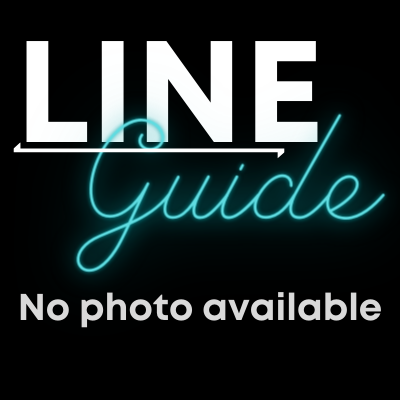
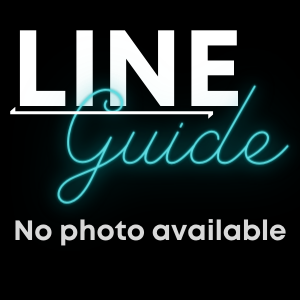
add default image

diff --git a/lines/templates/lines/line_detail.html b/lines/templates/lines/line_detail.html
@@ -4,11 +4,11 @@
 
 <div class="row ">
   <div class="col s6">
-    <div class="card-panel grey darken-1 teal-text valign-wrapper" style="border-radius: 15px; height: 350px; border-top: 10px;">
+    <div class="card-panel grey darken-1 teal-text valign-wrapper" style="border-radius: 15px;">
       {% for photo in line.photo_set.all %}
-      <img class="responsive-img" src="{{photo.url}}" alt="" style="height: 250px; border-top: 10px;" />
+      <img class="responsive card-image" src="{{photo.url}}" alt="" />
       {% empty %}
-      <div class="card-panel teal-text center-align">{% static 'images/lg_no_photo.png'%}</div>
+      <img class="responsive card-image center" src="{% static 'images/lg_no_photo.png' %}" alt="" />
       {% endfor %}
     </div>
   </div>

diff --git a/lines/static/css/style.css b/lines/static/css/style.css
@@ -10,6 +10,11 @@ body {
 main {
   flex: 1 0 auto;
 }
+.responsive {
+  width: 100%;
+  max-height: 350px;
+  object-fit: cover;
+}
 nav ul li a, nav ul li input{
   color: #00bcd4;
 }    
